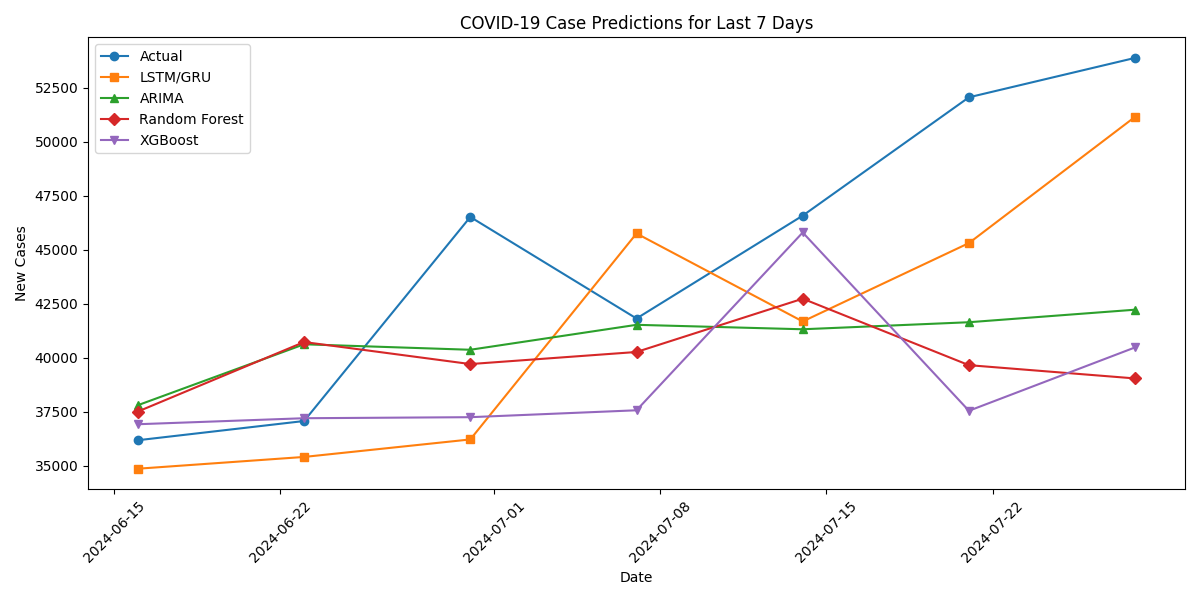
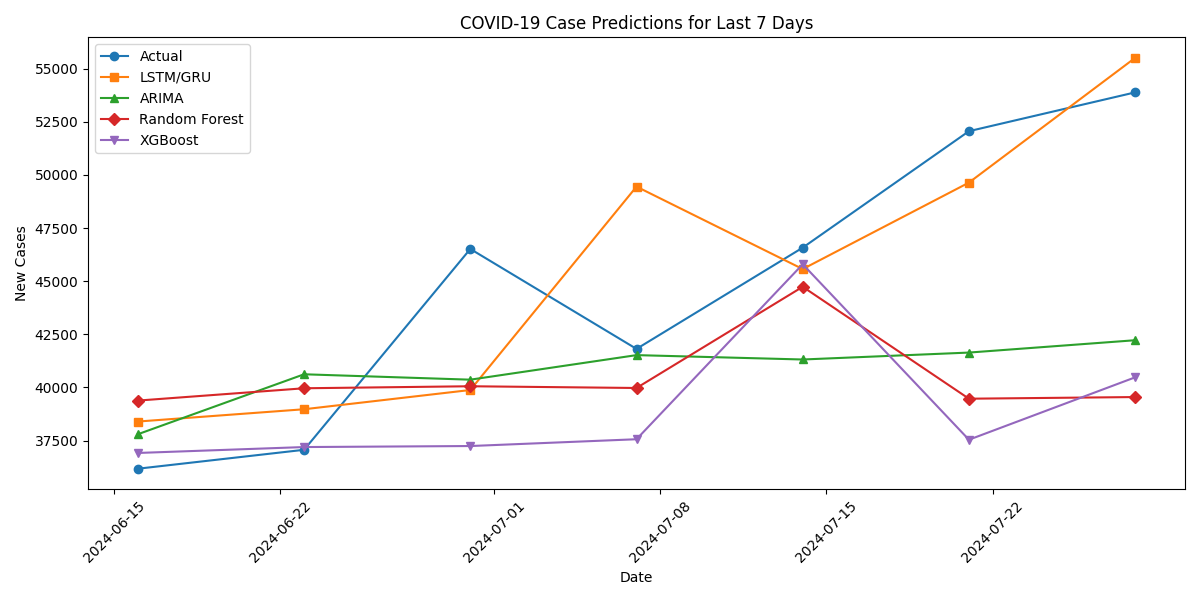
update_batch_size

diff --git a/covid_prediction.py b/covid_prediction.py
@@ -105,7 +105,7 @@ def main():
         # LSTM/GRU model
         print("Training LSTM/GRU model...")
         lstm_gru_model = build_lstm_gru_model(sequence_length)
-        lstm_gru_model.fit(X_train, y_train, epochs=200, batch_size=16, verbose=2)
+        lstm_gru_model.fit(X_train, y_train, epochs=200, batch_size=32, verbose=2)
         lstm_gru_predictions = lstm_gru_model.predict(X_test)
         
         # ARIMA model
